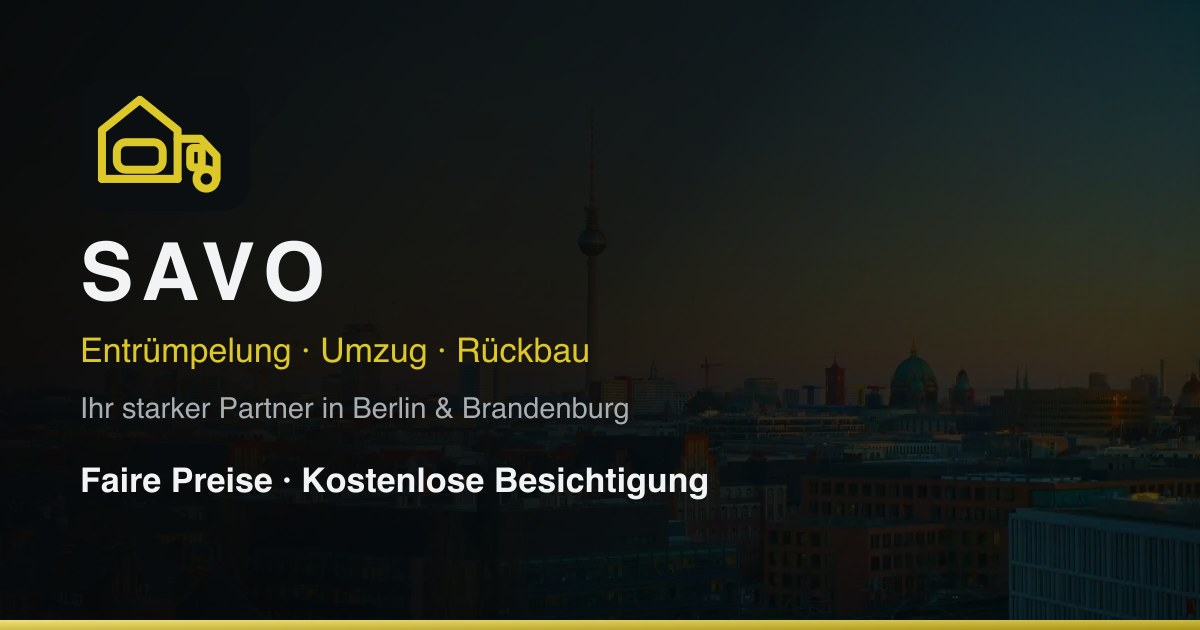
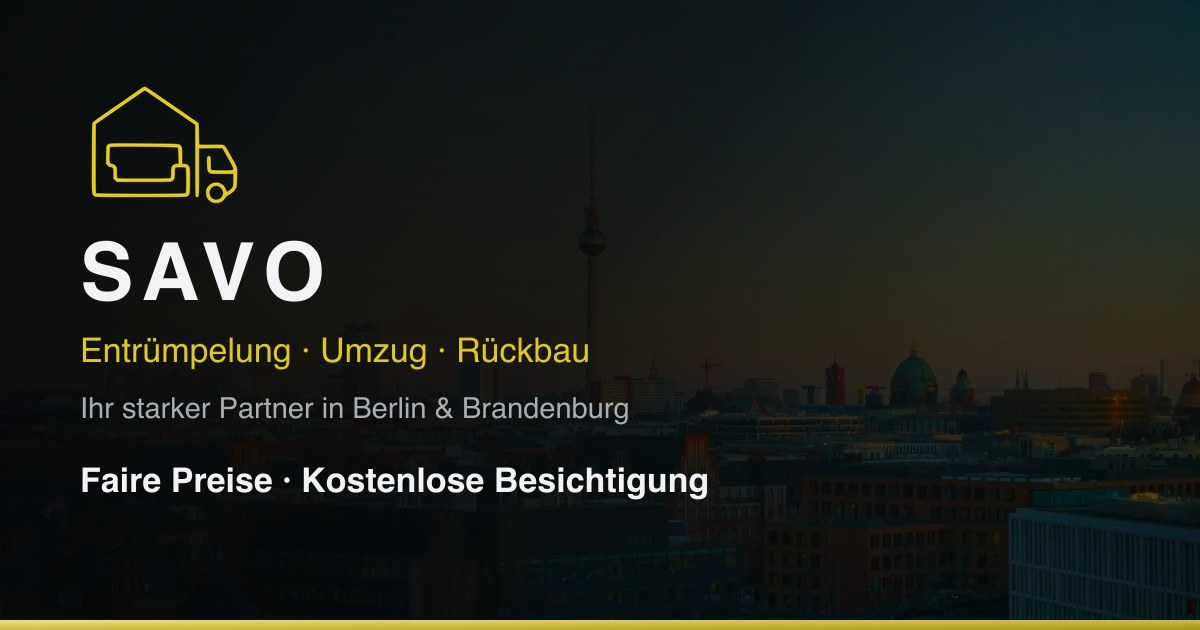
svg added

Changed region(s): [[0.0617, 0.1206, 0.2158, 0.3317]]

diff --git a/src/components/Logo.tsx b/src/components/Logo.tsx
@@ -1,10 +1,10 @@
 import { site } from "@/lib/site";
-import { LogoMark } from "./icons";
 
 export function Logo({ href = "/#top" }: { href?: string }) {
   return (
     <a href={href} className="logo" aria-label={`${site.name} — Startseite`}>
-      <LogoMark />
+      {/* eslint-disable-next-line @next/next/no-img-element */}
+      <img src="/logo-mark.png" alt="" width={88} height={70} aria-hidden />
       <span>
         <b>{site.name}</b>
         <span>Berlin &amp; Brandenburg</span>

diff --git a/src/app/globals.css b/src/app/globals.css
@@ -281,14 +281,17 @@
   flex-shrink: 0;
 }
 
-.logo svg {
+.logo svg,
+.logo img {
   width: 44px;
   height: 33px;
+  object-fit: contain;
   color: var(--gold);
   transition: transform 0.5s var(--ease);
 }
 
-.logo:hover svg {
+.logo:hover svg,
+.logo:hover img {
   transform: translateX(3px);
 }
 
